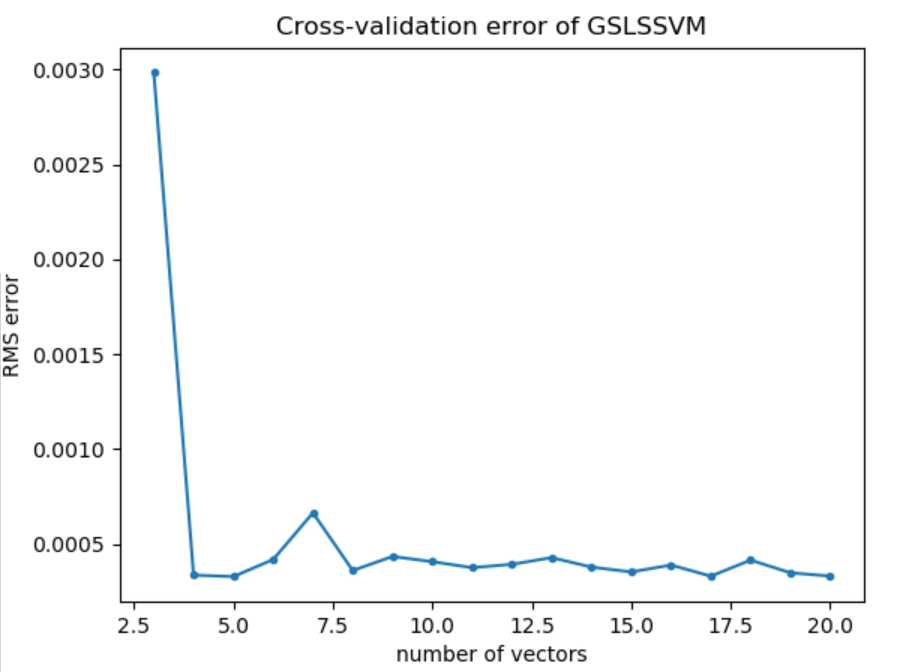
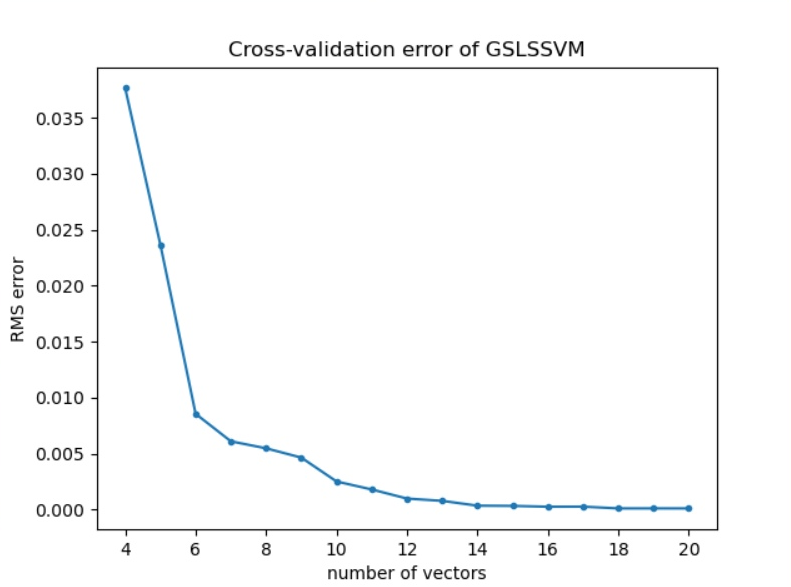
Add my report

Changed region(s): [[0.0, 0.0, 0.9709, 1.0], [0.2427, 0.6746, 0.2731, 0.7359]]

diff --git a/noise_plot.py b/noise_plot.py
@@ -18,18 +18,18 @@ if __name__ == "__main__":
     l = len(x_tr)
 
     x_test = []
-    for i in range(l // 10):                                      # генерация неповторяющихся вещественных чисел
+    for i in range(l ):                                      # генерация неповторяющихся вещественных чисел
         r = random.uniform(0, 2 * math.pi)
         if r not in x_test: 
             x_test.append(r)
     
-    noise = np.random.normal(0,0.1, l // 10)
-    y =  list(map(math.sin, x_test))
+    noise = np.random.normal(0,0.1, l)
+    y =  list(map(np.sinc, x_test))
     y_test = list(map(lambda a, b: a + b, noise, y))
 
-    C = 16384
-    sigma = 3.5
-    nv  = 4                              # оптимальное клоличество опорных векторов
+    C = 262144
+    sigma = 1.5  # с первого запуска на зашумлённых данных.
+    nv  = 5                              # оптимальное клоличество опорных векторов (пали график №4)
 
 
     K = [[0] * l for i in range(l)]
@@ -42,9 +42,9 @@ if __name__ == "__main__":
     y_res_3 = []
     y_res_4 = []
     RMS = 0
-    for i in range(l // 10):
-        y_res_3.append(f(x_test[i], x_tr, S, B[2], sigma))
-        y_res_4.append(f(x_test[i], x_tr, S, B[3], sigma))
+    for i in range(l):
+        y_res_3.append(f(x_test[i], x_tr, S, B[nv - 2], sigma))
+        y_res_4.append(f(x_test[i], x_tr, S, B[nv - 1], sigma))
         # RMS += (y_res[i] - y_test[i]) ** 2
     # RMS  = math.sqrt(RMS / l)
     # print("RMS = ", RMS)
@@ -67,11 +67,11 @@ if __name__ == "__main__":
     y_res_4_s  = [x[1] for x in res_4_s ]
 
 
-    plt.plot(x_test_s, y_test_s, '.', label = 'y = sin(x) + N(0, 0.1)')
-    # plt.plot(x_test, y_res_3, '*', label = 'y = f(x), n_ref = 3')  
-    # plt.plot(x_test, y_res_4, '*', label = 'y = f(x), n_ref = 4') 
-    plt.plot(x_test_s, y_res_3_s, '*-', label = 'y = f(x), n_ref = 3')  
-    plt.plot(x_test_s, y_res_4_s, '*-', label = 'y = f(x), n_ref = 4') 
+    plt.plot(x_test_s, y_test_s, '.', label = 'y = sinc(x) + N(0, 0.1)')
+    plt.plot(x_test, y_res_3, '*', label = 'y = f(x), n_ref = 4')  
+    plt.plot(x_test, y_res_4, '*', label = 'y = f(x), n_ref = 5') 
+    #plt.plot(x_test_s, y_res_3_s, '*-', label = 'y = f(x), n_ref = 4') # закоментить чтоб получить график №5 
+    #plt.plot(x_test_s, y_res_4_s, '*-', label = 'y = f(x), n_ref = 5') # закоментить чтоб получить график №5
     for i in S:
         x_ref.append(x_tr[i])
         y_ref.append(y_tr[i])

diff --git a/SVM_custom.py b/SVM_custom.py
@@ -13,14 +13,14 @@ if __name__ == "__main__":
     x = []
     y = []
 
-    file_name = "Data//noise_data.txt"
+    file_name = "Data//noise_data.txt" #ЧЕКАТЬ
     #считывание данных
     data_in = []
     with open(file_name) as f:
         for line in f:
             data_in.append([float(val) for val in line.split()])
 
-    f_out_RMS = open( "RMS_noise_data.csv", "w") 
+    f_out_RMS = open( "RMS_noise_data.csv", "w")  #ЧЕКАТЬ
 
     n = len(data_in[0]) // k
 
@@ -34,7 +34,7 @@ if __name__ == "__main__":
 
     # настройка машины:
     # перебор C
-    d = n * (k - 1)
+    """ d = n * (k - 1) # для второго графика закомментить от сюда
     C_begin = 2 ** (1)
     C_end = (2 ** (13)) * d
     C = C_begin
@@ -42,7 +42,7 @@ if __name__ == "__main__":
     sigma_begin = 0.5
     sigma_end = 4
     sigma_step = 0.2
-    s_range =np.arange(sigma_begin, sigma_end, sigma_step)
+    s_range = np.arange(sigma_begin, sigma_end, sigma_step)
 
     for sigma in s_range:
         # перебор sigma
@@ -64,20 +64,29 @@ if __name__ == "__main__":
         f_out_RMS.write('\n')
 
     f_out_RMS.close()
-    C = C_min
+    C = C_min 
 
-    C = 16384
-    sigma = 3.5
-
-    sigma = sigma_min
-
-    print("C_min = " + str(C_min))
+    sigma = sigma_min 
+    print("C_min = " + str(C_min) + "\n")
     print("sigma_min = " + str(sigma_min))
+    f = open("mins.txt", "w")
+    f.write("C_min = " + str(C_min))
+    f.write("sigma_min = " + str(sigma_min))
+    f.close()
+    # для второго графика закомментить до сюда
+    """
+    C = 262144 
+    sigma = 1.5
+
+   
+
+    
 
     # вычисление среднеквадратичной ошибки для любого количества опорных векторов
-    inf = k_training(k, n, x, y, C, sigma, n, True)
+    inf = k_training(k, n, x, y, C, sigma, 20, True) # второе n заменить на ~20 при втором запуске
 
-    plt.plot(range(4, 41, 1), inf[3:40:1], '.-')
+    plt.plot(range(4, 21, 1), inf[3:20:1], '.-') # для второго запуска
+    #plt.plot(range(0, n, 1), inf[0:n:1], '.-')
 
     plt.title('Cross-validation error of GSLSSVM')
     plt.xlabel('number of vectors')

diff --git a/model_plot.py b/model_plot.py
@@ -15,7 +15,7 @@ if __name__ == "__main__":
         if r not in x_tr: 
             x_tr.append(r)
     
-    y_tr =  list(map(math.sin, x_tr))
+    y_tr =  list(map(np.sinc, x_tr))
 
 
     x_test = []
@@ -24,12 +24,12 @@ if __name__ == "__main__":
         if r not in x_test: 
             x_test.append(r)
     
-    y_test =  list(map(math.sin, x_test))
+    y_test =  list(map(np.sinc, x_test))
     
 
-    C = 1048576
-    sigma = 2.9
-    nv  = 4                              # оптимальное клоличество опорных векторов
+    C = 524288 # сюда запишем те два числа с первого запуска
+    sigma = 0.7 
+    nv  = 6                              # оптимальное клоличество опорных векторов (пали график №2)
 
 
     K = [[0] * l for i in range(l)]
@@ -43,8 +43,8 @@ if __name__ == "__main__":
     y_res_4 = []
     RMS = 0
     for i in range(l):
-        y_res_3.append(f(x_test[i], x_tr, S, B[2], sigma))
-        y_res_4.append(f(x_test[i], x_tr, S, B[3], sigma))
+        y_res_3.append(f(x_test[i], x_tr, S, B[nv - 2], sigma)) 
+        y_res_4.append(f(x_test[i], x_tr, S, B[nv - 1], sigma))
         # RMS += (y_res[i] - y_test[i]) ** 2
     # RMS  = math.sqrt(RMS / l)
     # print("RMS = ", RMS)
@@ -56,9 +56,9 @@ if __name__ == "__main__":
     x_test_s = [x[0] for x in ideal_s]
     y_test_s  = [x[1] for x in ideal_s]
 
-    plt.plot(x_test_s, y_test_s, '-', label = 'y = sin(x)')
-    plt.plot(x_test, y_res_3, '*', label = 'y = f(x), n_ref = 3')  
-    plt.plot(x_test, y_res_4, '*', label = 'y = f(x), n_ref = 4') 
+    plt.plot(x_test_s, y_test_s, '-', label = 'y = sinc(x)')
+    plt.plot(x_test, y_res_3, '*', label = "y = f(x), n_ref = " + str(nv-1))  
+    plt.plot(x_test, y_res_4, '*', label = "y = f(x), n_ref = " + str(nv)) 
     for i in S:
         x_ref.append(x_tr[i])
         y_ref.append(y_tr[i])

diff --git a/GSLSSVM.py b/GSLSSVM.py
@@ -94,7 +94,7 @@ def LS_SVM(C, sigma, K, x_tr, y_tr, nv_max, return_array):
     Omega_i = np.zeros(0) 
 
     for nv_i in range(nv_max):
-        print("nv_i =", nv_i)
+        #print("nv_i =", nv_i)
         Ind = list(set(range(l)) - set(S)) + [-1]  # список свободных индексов
         S.append(0)                                # добавление к ОВ нового индекса
         for i in Ind:                              # пеербор всех свободных индексов, для каждого строится и решается СЛАУ

diff --git a/README.md b/README.md
@@ -66,40 +66,39 @@
 Размер тренировочной последовательности n = 300, размер тестовой последовательности 300  
 Данные сгенерированы автоматически.  
 Таблица среднеквадратических ошибок при настройке машины представлена в файле: [RMS_model](README/Tables/RMS_model_data.xlsx)  
-В результате настройки найдены следующие значения гиперпараметров при RMS = 0,00034427:  
-C =  1048576  
-sigma =  2,9  
-При этом из таблицы видно, что большая часть вычислений для настройки машины не принесла результатов, значения C = 524288, sigma = 0,5 так же дают ошибку порядка 10^(-4).
+В результате настройки найдены следующие значения гиперпараметров при RMS = 0,00028516:  
+C = 524288  
+sigma = 0.7
 #### Зависимость среднеквадратической ошибки от количества опорных векторов  
 Для найденных значений гиперпараметров построим график зависимости среднеквадратической ошибки от количества опорных векторов(100):  
 ![RMS model 100](README/Plots/RMS_model_100.png)  
-По графику видно, что среднеквадратическая ошибка быстро убывает от 1 до 4 опорных векторов, и далее остается постоянно низкой. Рассмотрим график зависимости среднеквадратической ошибки от количества опорных векторов для значений [3 : 20], чтобы определить оптимальное количество опорных векторов для данной модели.  
+По графику видно, что среднеквадратическая ошибка быстро убывает от 1 до 15 опорных векторов, и далее остается постоянно низкой. Рассмотрим график зависимости среднеквадратической ошибки от количества опорных векторов для значений [3 : 20], чтобы определить оптимальное количество опорных векторов для данной модели.  
 ![RMS model 3-20](README/Plots/RMS_model_3-20.png)  
-Для любого количества опорных векторов больше 3 порядок ошибки остается 10^(-4), значит 4 опорных вектора можно принять за оптимальное значение.
-График модельных данных и найденной функции регрессии для 3 и 4 опорных векторов:
+Для любого количества опорных векторов больше 6 порядок ошибки остается 10^(-4), значит 6 опорных векторов можно принять за оптимальное значение.
+График модельных данных и найденной функции регрессии для 5 и 6 опорных векторов:
 ![model plot](README/Plots/model_plot.png)  
 ### Восстановление однофакторной регрессии по зашумленным данным
-В качестве зашумленных данных сгенерированы пары чисел (x, y), x из [0, 2pi), y = sin(x) + N(0, 0.1)  
+В качестве зашумленных данных сгенерированы пары чисел (x, y), x из [0, 2pi), y = sinc
+(x) + N(0, 0.1)  
 Размер валидационной последовательности для настройки машины l = 300, кратность перекрестной проверки k = 3  
 Данные представлены в файле: [зашумленные данные](Data/noise_data.txt)  
 Размер тренировочной последовательности n = 300, размер тестовой последовательности 300  
 Данные сгенерированы автоматически.  
 Таблица среднеквадратических ошибок при настройке машины представлена в файле: [RMS_noise](README/Tables/RMS_noise_data.xlsx)  
-В результате настройки найдены следующие значения гиперпараметров при RMS = 0,097377782:  
-C =  16384  
-sigma =  3,5  
-При этом уже значения C = 256, sigma = 0,9 дают такой же порядок ошибки.
+В результате настройки найдены следующие значения гиперпараметров при RMS = 0,088379722:  
+C = 262144
+sigma = 1.5
 #### Зависимость среднеквадратической ошибки от количества опорных векторов  
-Для найденных значений гиперпараметров построим график зависимости среднеквадратической ошибки от количества опорных векторов(100):  
+Для найденных значений гиперпараметров построим график зависимости среднеквадратической ошибки от количества опорных векторов (100):  
 ![RMS noise 100](README/Plots/RMS_noise_100.png)  
-По графику видно, что среднеквадратическая ошибка быстро убывает от 1 до 4 опорных векторов, и далее остается постоянно низкой. Рассмотрим график зависимости среднеквадратической ошибки от количества опорных векторов для значений [4 : 40], чтобы определить оптимальное количество опорных векторов для данной модели. Для 3 опорных векторов значение ошибки выше на несколько порядков и не позволяет оценить остальные значения.
-![RMS noise 4_40](README/Plots/RMS_noise_4_40.png)  
-Для любого количества опорных векторов больше 3 порядок ошибки остается 10^(-2), значит 4 опорных вектора можно принять за оптимальное значение.  
+По графику видно, что среднеквадратическая ошибка быстро убывает от 1 до 7 опорных векторов, и далее остается постоянно низкой. Рассмотрим график зависимости среднеквадратической ошибки от количества опорных векторов для значений [3 : 20], чтобы определить оптимальное количество опорных векторов для данной модели. Для 5 опорных векторов значение ошибки выше на несколько порядков и не позволяет оценить остальные значения.
+![RMS noise 4_40](README/Plots/RMS_noise_3_20.png)  
+Для любого количества опорных векторов больше 5 порядок ошибки остается 10^(-2), значит 5 опорных векторов можно принять за оптимальное значение.  
 Тестовая последовательность зашумленных данных из 300 значений:   
-![noise plot](README/Plots/noise.png)  
-График модельных данных и найденной функции регрессии для 3 и 4 опорных векторов на 300 значениях:  
-![noise plot](README/Plots/noise_plot_300_01.png)  
-График модельных данных и найденной функции регрессии для 3 и 4 опорных векторов на 30 значениях:  
+![noise plot](README/Plots/noise_plot.png)  
+График модельных данных и найденной функции регрессии для 4 и 5 опорных векторов на 300 значениях:  
+![noise plot](README/Plots/noise_func.png)  
+График модельных данных и найденной функции регрессии для 4 и 5 опорных векторов на 30 значениях:  
 ![noise plot](README/Plots/noise_plot_30_01.png)  
 ### Решение СЛАУ
 На практике, встроенные не всегда могут справится с решением систем линейных уравнений при повышении размерности и малом изменении значений. В некоторых случаях, использованный метод numpy.linalg.solve() детектировал ошибку "Numpy error: Matrix is singular", что означает нулевой определитель матрицы системы. Появление этой ошибки связано с внутренними способами решения СЛАУ данного метода и на деле не является правдой, определитель не нулевой, система имеет решение. В связи с этим, для реализации GSLS пришлось решать СЛАУ с помощью обратной матрицы. 
@@ -133,6 +132,24 @@ Python 3.8.1
  - GSLSSVM.py - главный модуль системы с реализацией машины опорных векторов
  - generation_model_data.py, generation_noise_data.py - генерация чистых и зашумленных данных по заданным функциям
  - model_plot.py, noise_plot.py - построение графика функции регресси по заданным значениям гиперапараметров и количеством опорных векторов
+#### Использование
+В виду сжатых сроков алгоритм использования такой, какой есть :)
+
+1. Выполнить скрипты: generation_model_data.py и generation_noise_data.py для генерации точных и зашумлённых значений функции. Функция, диапазон и количество значений предварительно настраиваются внутри скриптов.
+2. В скрипте SVM_custom.py ручками указать файл, откуда берутся данные (Data//noise_data.txt или Data//model_data.txt), во время первого запуска происходит настройка гиперпараметров, осуществляемая перебором по сетке (для выборки из 300 элементов такая настройка займёт не меньше 4х часов :)), подбираются гиперпараметры (C_min и sigma_min) и выводятся в консоль и записываются в файл "mins.txt". Также выводится график ошибок для разных количествах опорных векторов. Для первого запуска необходимо:
+  1. Указать file_name равным Data//noise_data.txt или Data//model_data.txt.
+  2. Указать название файла в f_out_RMS чтобы не перетереть старые данные о среднеквадратических ошибках.
+  3. Убедиться что строки с 37 по 77 раскомментированы (в них происходит времязатратная настройка машины).
+  4. Убедиться что строки 78 и 79 закомментированы (они понадобятся на втором запуске)
+  5. Убедиться что строка 88 закомментирована, а 89 раскомментирована.
+  6. 
+3. Во время второго запуска (ручками) скрипта SVM_custom.py происходит более качественная оценка результата настроенной машины -- возможность детальнее проанализировать зависимость ошибок от числа векторов и выбрать минимально достаточное количество опорных векторов. Для второго запуска необходимо:
+  1. Убедиться, что file_name это тот же файл, что был использован для настройки машины на предыдущем шаге.
+  2. Убедиться что строки с 37 по 77 закомментированы (машина уже настроена).
+  3. Раскомментировать строки 78 и 79 и записать в них соответсвущие значения C_min и sigma_min, полученные на предыдущем шаге (их можно найти в файле mins.txt).
+  4. Убедиться что строка 89 закомментирована, а 88 раскомментирована (вы выбираете меньший масштаб для графика, скажем, 20 векторов вместо 100, чтобы детальнее рассмотреть график и выбрать такое число опорных векторов, что начиная с этого числа ошибка остаётся не выше некого порядка).
+4. Запустить скрипт model_plot.py для получения графиков функций (убедиться что в скрипте используются нужные вам функции надо глазками и, если что, поправить ручками), получающихся с помощью выбранного числа опорных векторов на выборках разных размеров.
+5. Для зашумлённых данных алгоритм аналогичен, только на шаге 4 надо запускать noise_plot.py
 ## Литература
 1. Cawley  G., and Talbot N. A Greedy Training Algorithm for Sparse Least-Squares Support Vector Machines. J.R.Dorronsoro (Ed.): ICANN 2002, LNCS 2415, pp.681-686. Springer-Verlag Berlin Heidelberg 2002
 2. Гантмахер Ф.Р. Теория матриц. – М.: Наука, 1968
